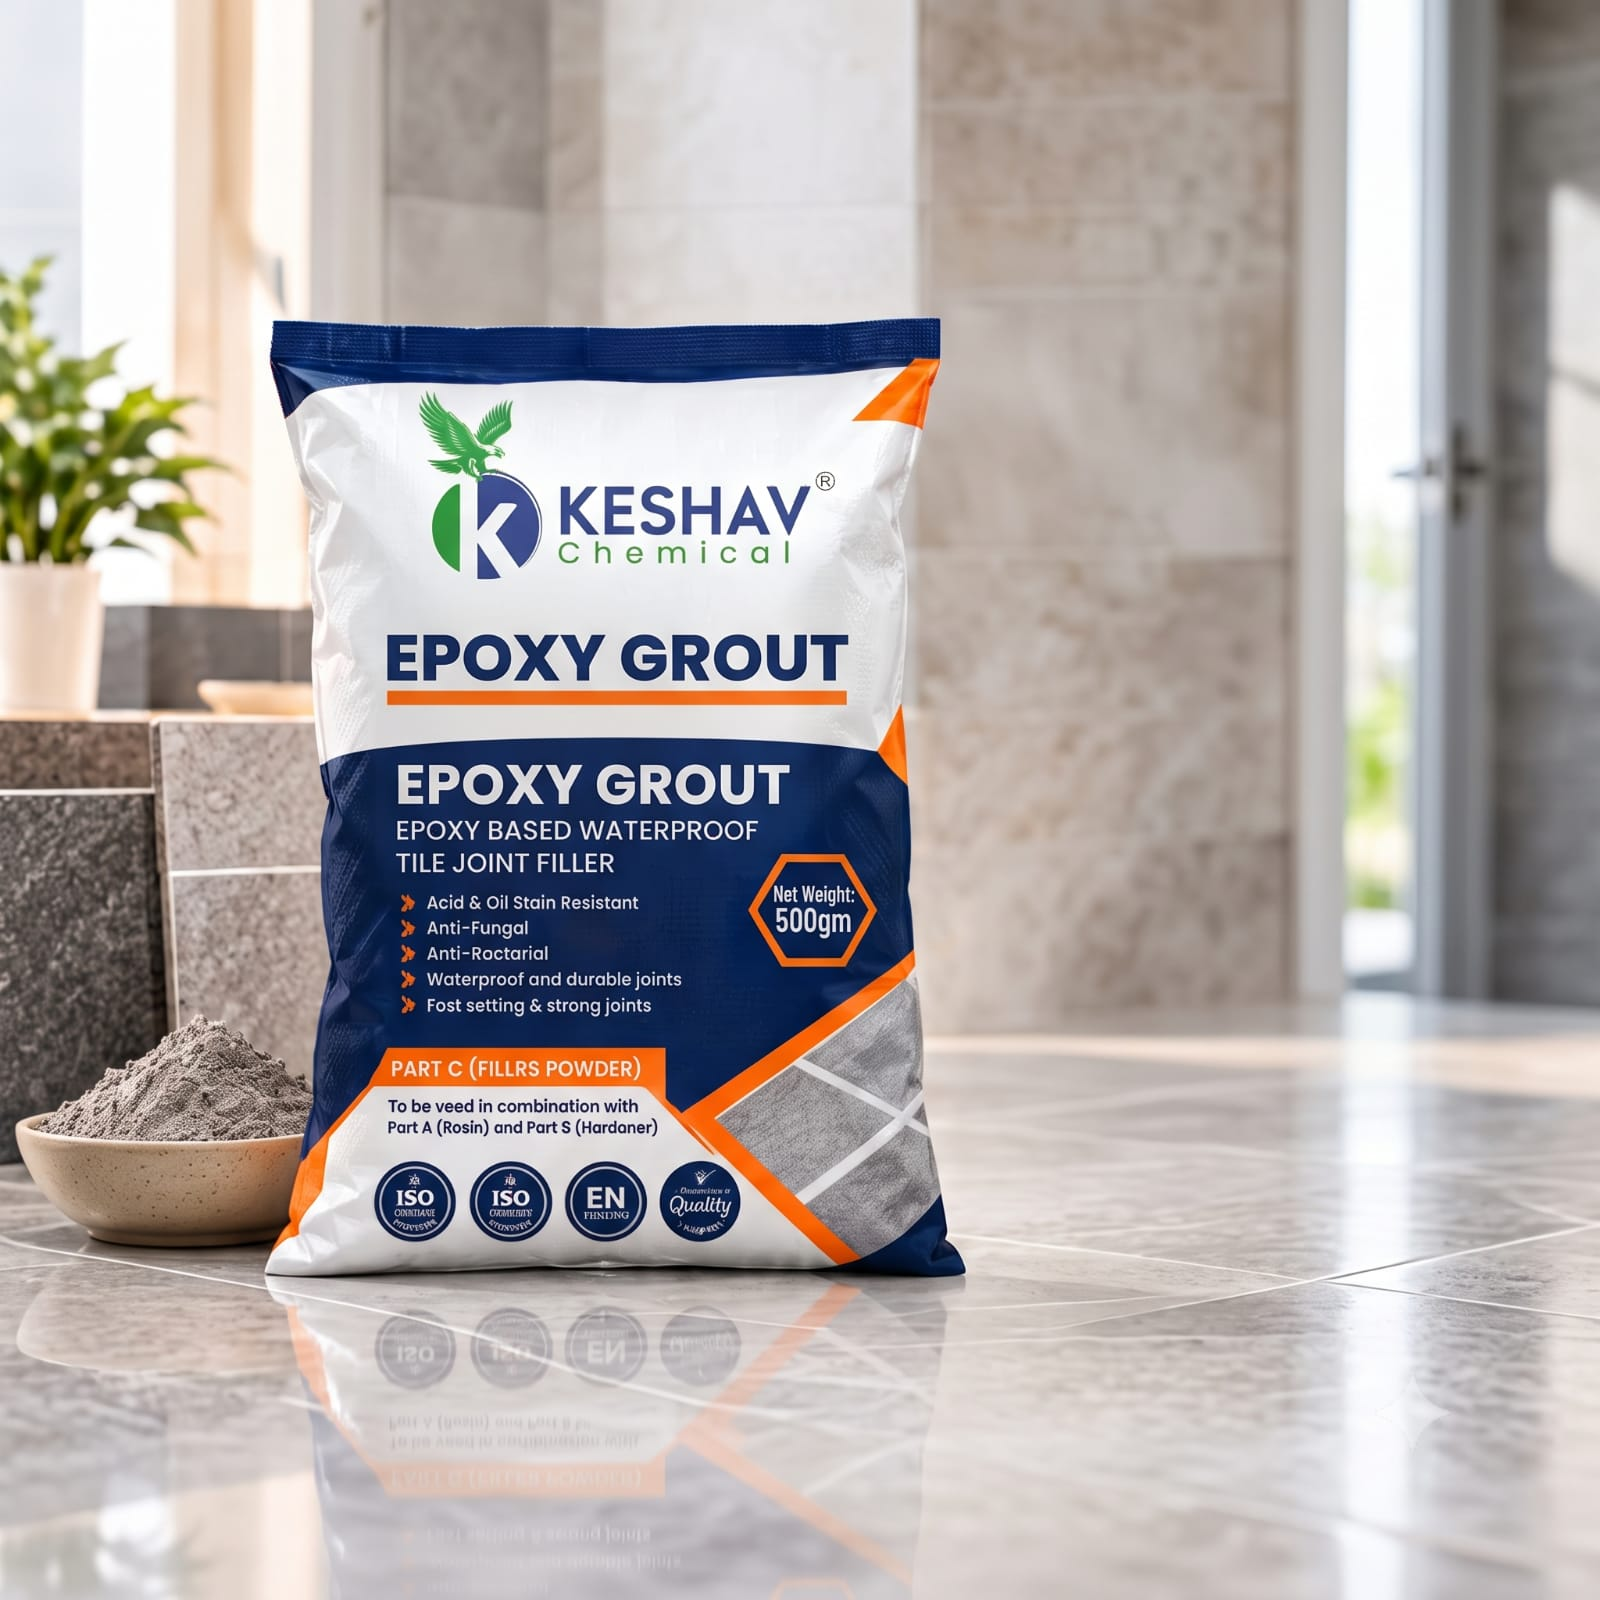
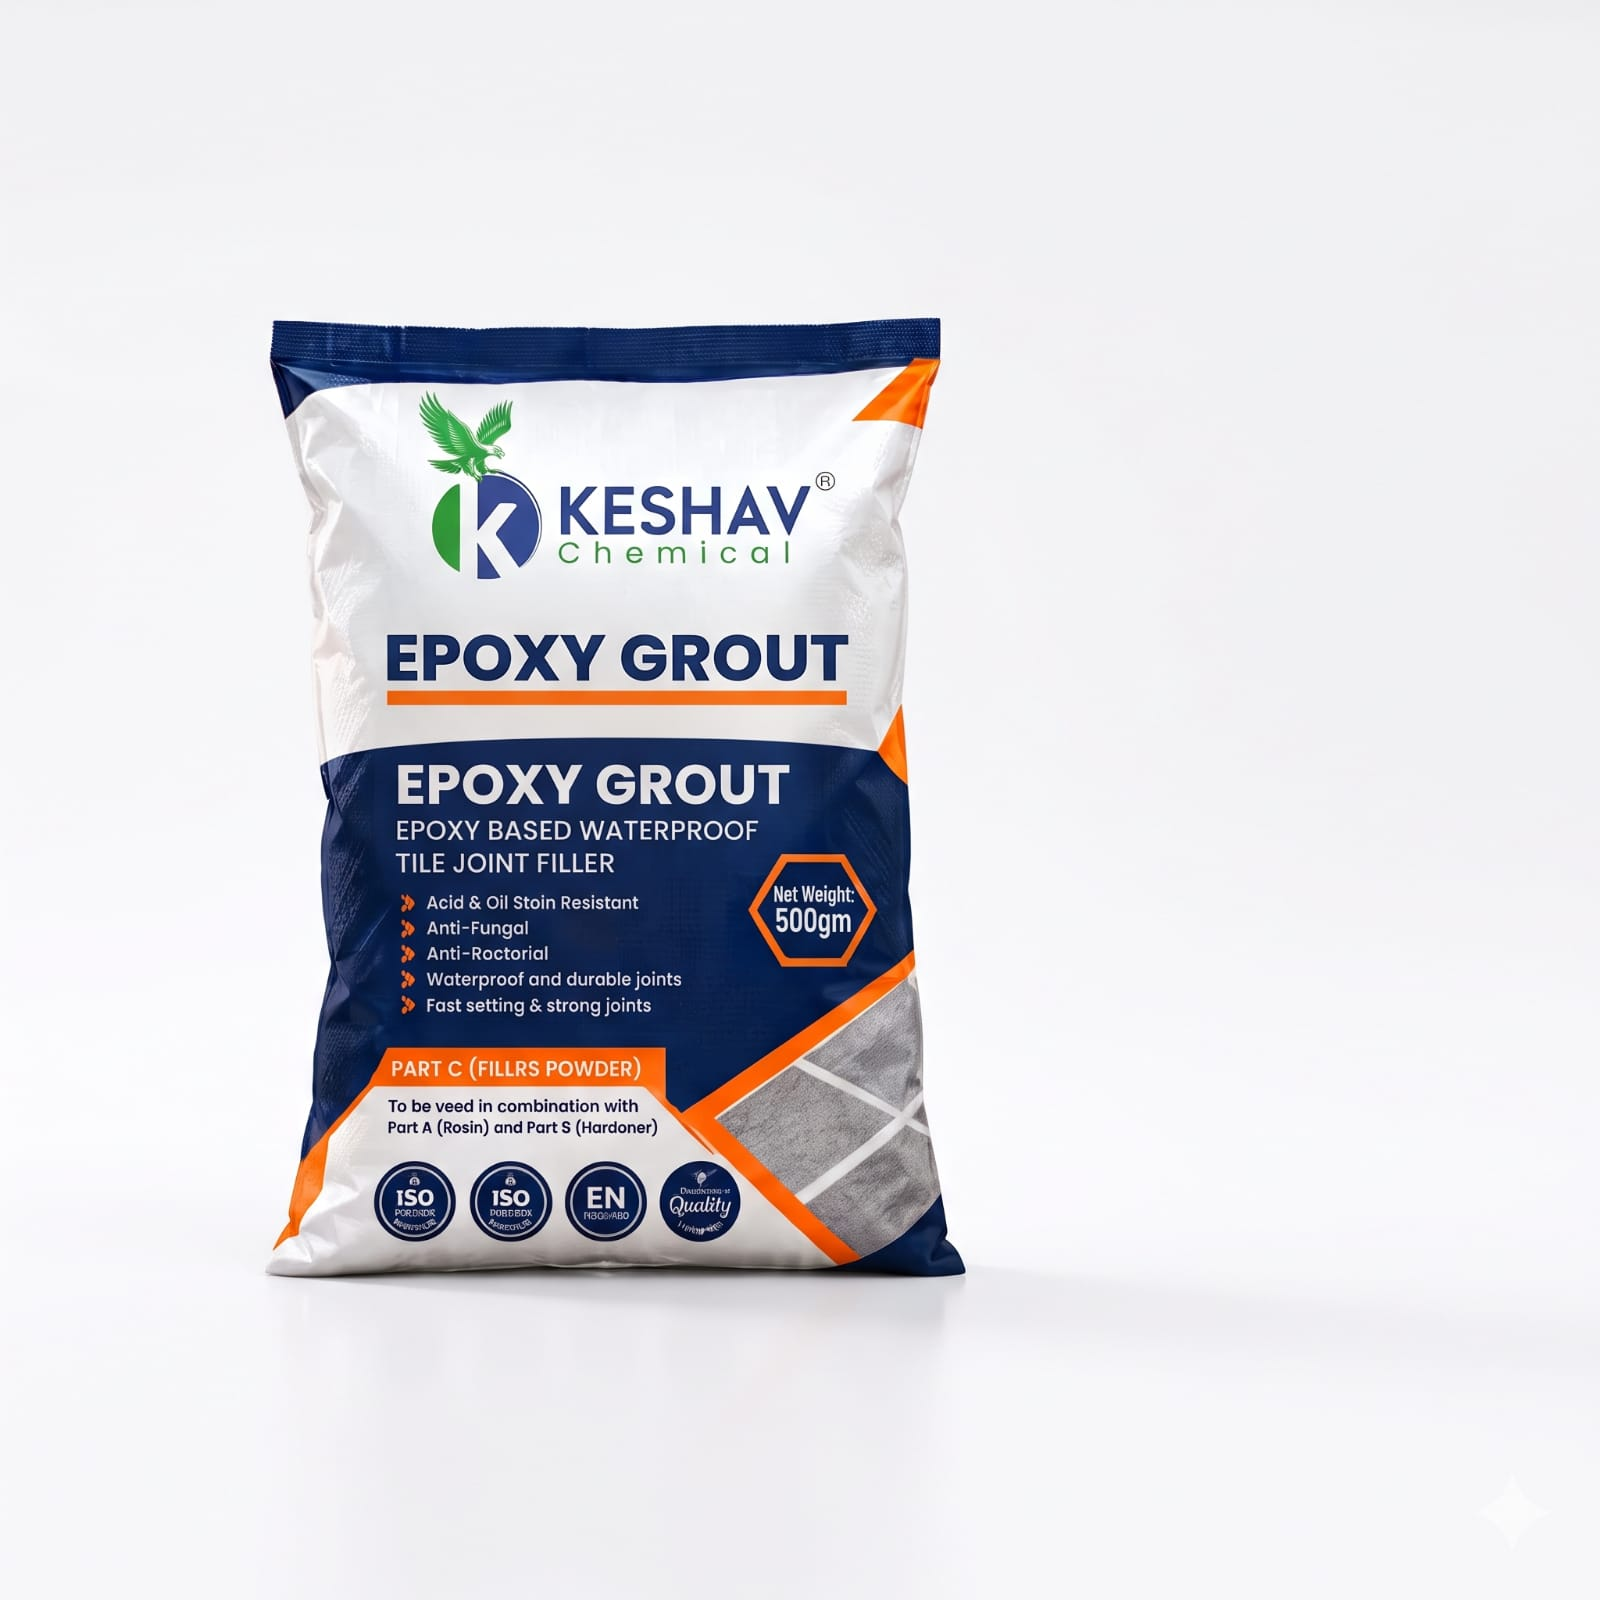
photo change and add

diff --git a/src/data/products-data.ts b/src/data/products-data.ts
@@ -15,6 +15,7 @@ import readyMixfront from "../assets/image/ready-mix.jpeg";
 // import readyMixback from "../assets/image/ready-mix-2.jpeg";
 import tileJointFiller from "../assets/image/tiles-joint-filler.jpeg";
 import towel8mm from "../assets/image/towel-8mm.jpeg"
+import sbr from "../assets/image/sbr.jpeg"
 
 export interface ProductSpecifications {
     size?: string;
@@ -495,7 +496,7 @@ export const productsData: ProductCategory[] = [
                 name: "KESHAV SBR LATEX",
                 slug: "keshav-sbr-latex",
                 category: "construction-chemicals",
-                image: "/images/products/keshav-sbr-latex.png",
+                image: sbr,
                 description:
                     "KESHAV SBR LATEX is a styrene-butadiene rubber latex used as a bonding agent and additive in cementitious mortars, plasters, and waterproofing applications.",
                 specifications: {

diff --git a/src/assets/css/pavanity-theme.css b/src/assets/css/pavanity-theme.css
@@ -5238,9 +5238,9 @@ img {
     }
 }
 
-/* Fill product photo frames without distorting the images. */
+/* Keep complete product packaging visible inside its photo frame. */
 .pavanity-products-card--compact .pavanity-products-card__media {
-    background: #eaecef;
+    background: #ffffff;
 }
 
 .pavanity-products-card--compact .pavanity-products-card__media::after {
@@ -5248,13 +5248,13 @@ img {
 }
 
 .pavanity-products-card--compact .pavanity-products-card__media img {
-    object-fit: cover;
+    object-fit: contain;
 }
 
 .pavanity-products-overview__media {
     display: grid;
     overflow: hidden;
-    background: #eaecef;
+    background: #ffffff;
 }
 
 .pavanity-products-overview__media > div {
@@ -5265,7 +5265,7 @@ img {
 .pavanity-products-overview__media img {
     position: absolute;
     inset: 0;
-    object-fit: cover;
+    object-fit: contain;
     width: 100%;
     height: 100%;
 }
